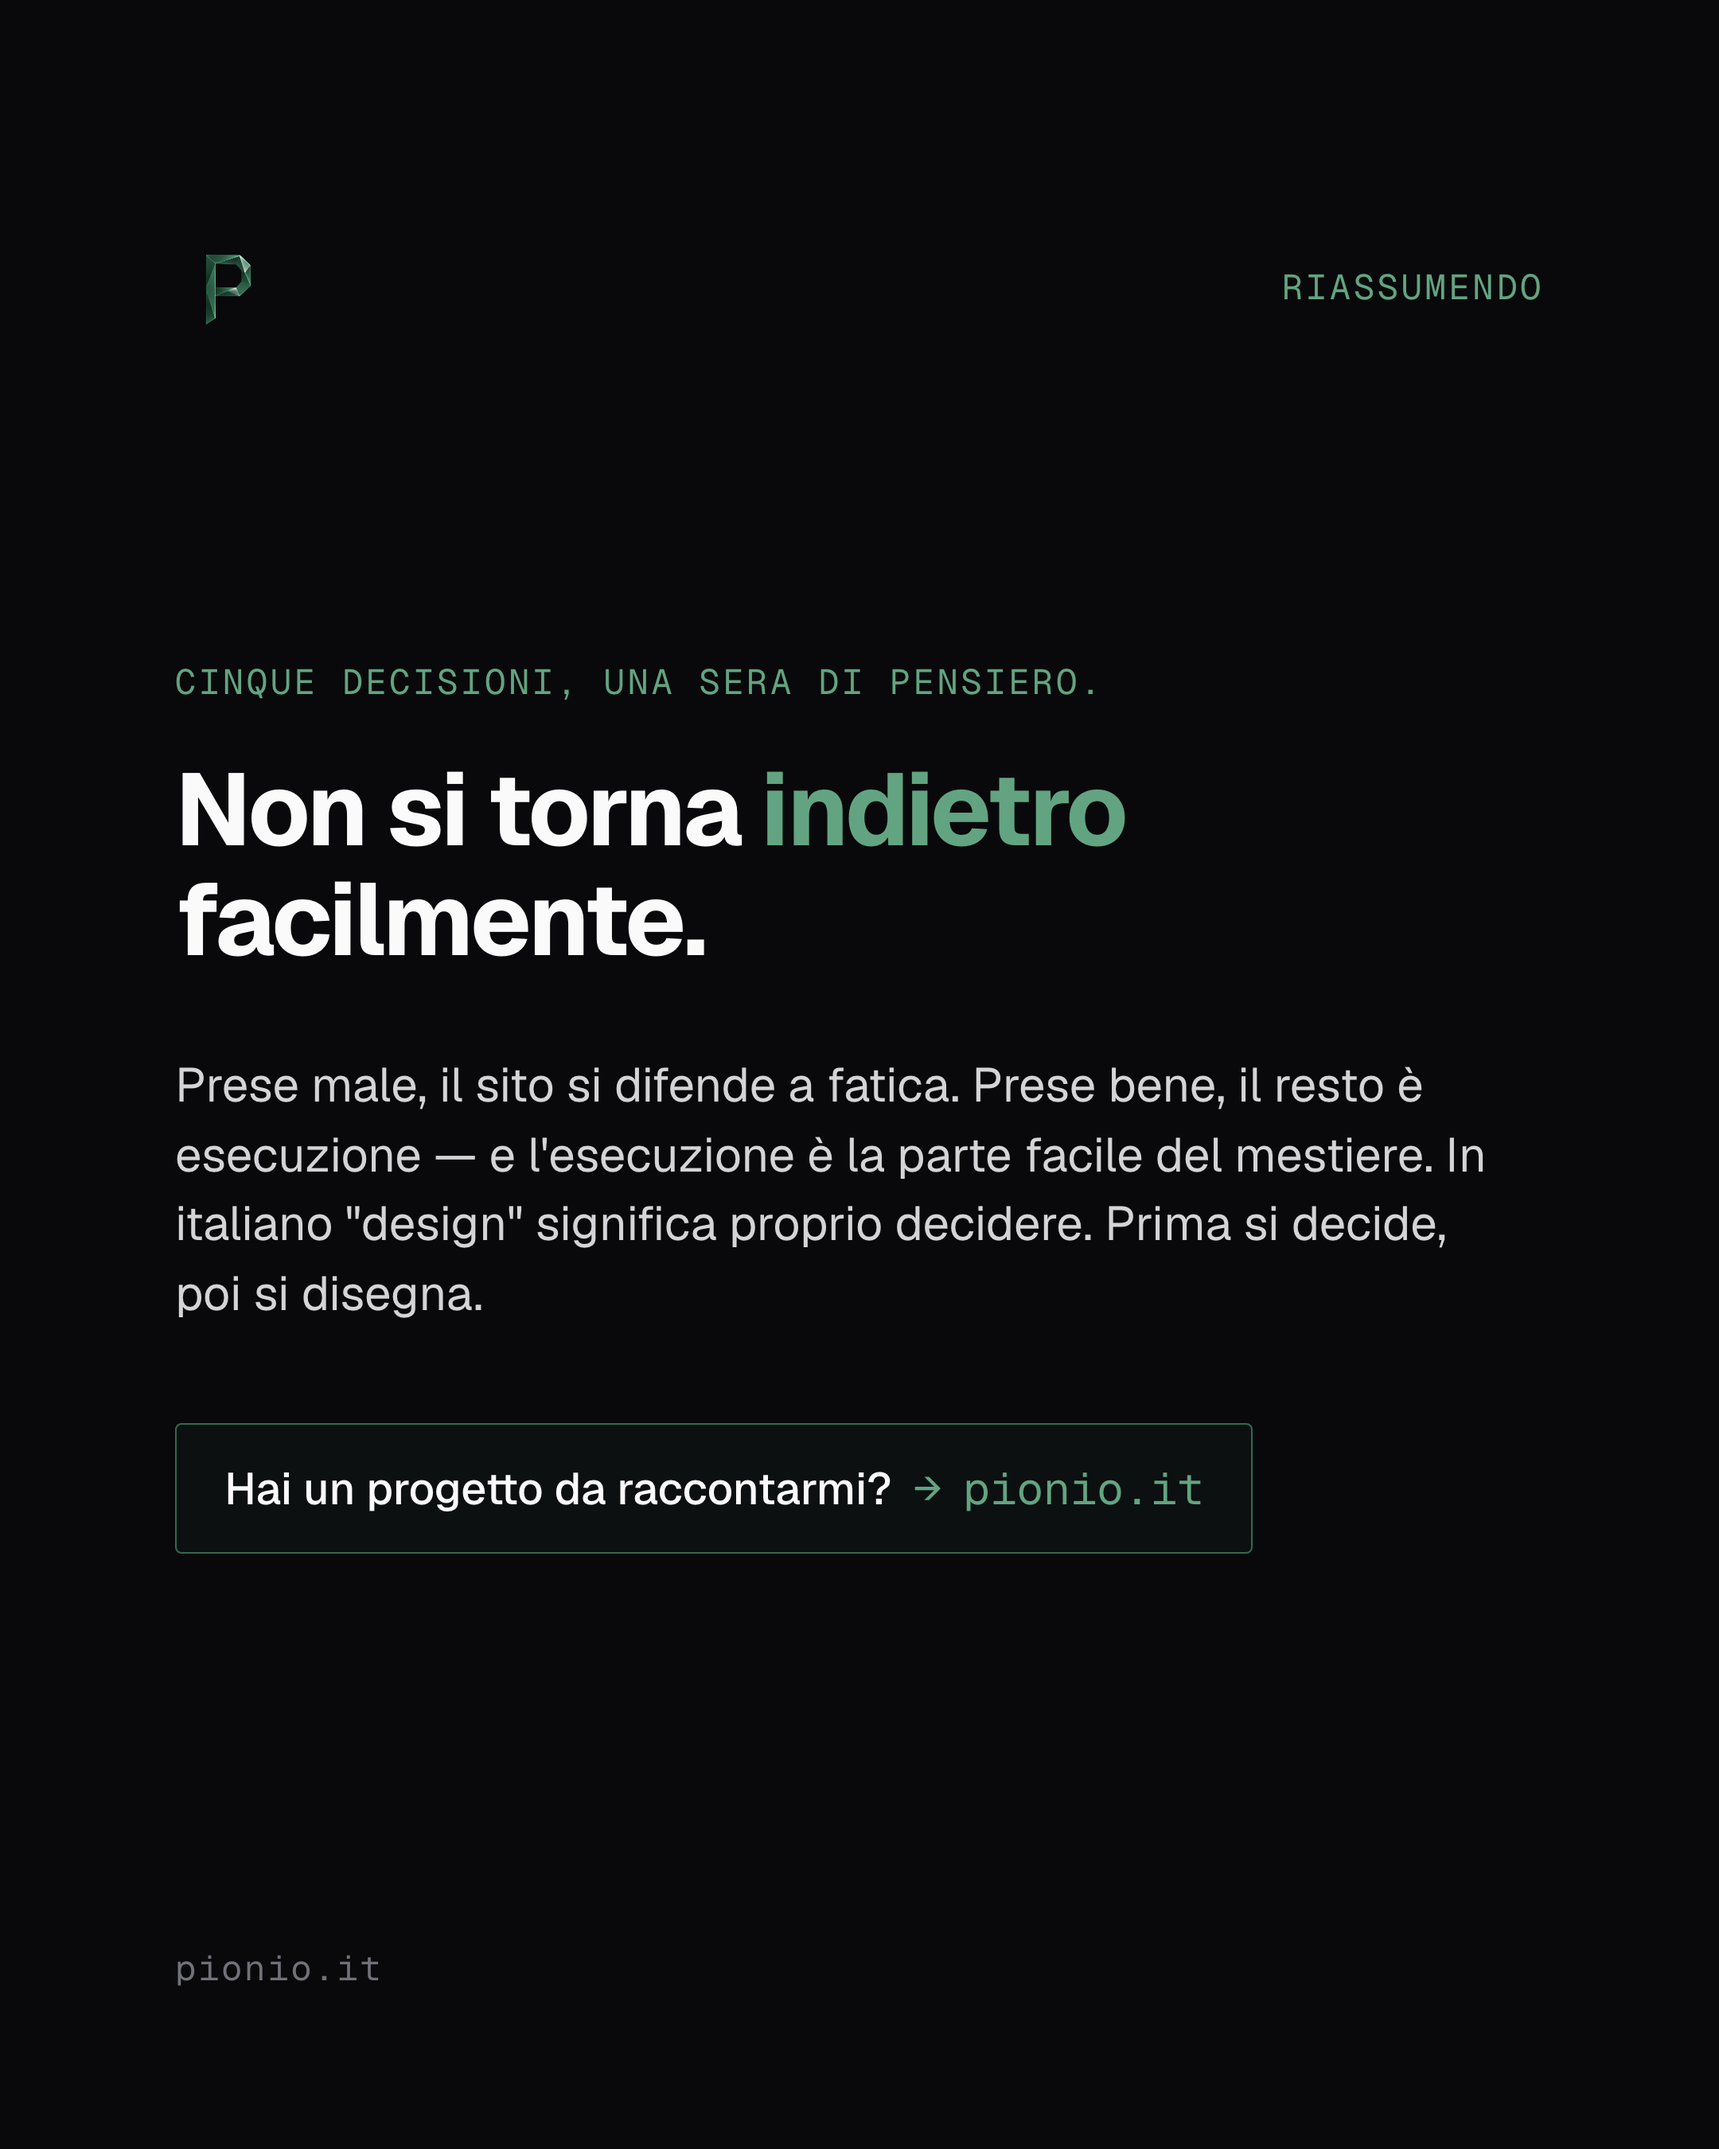
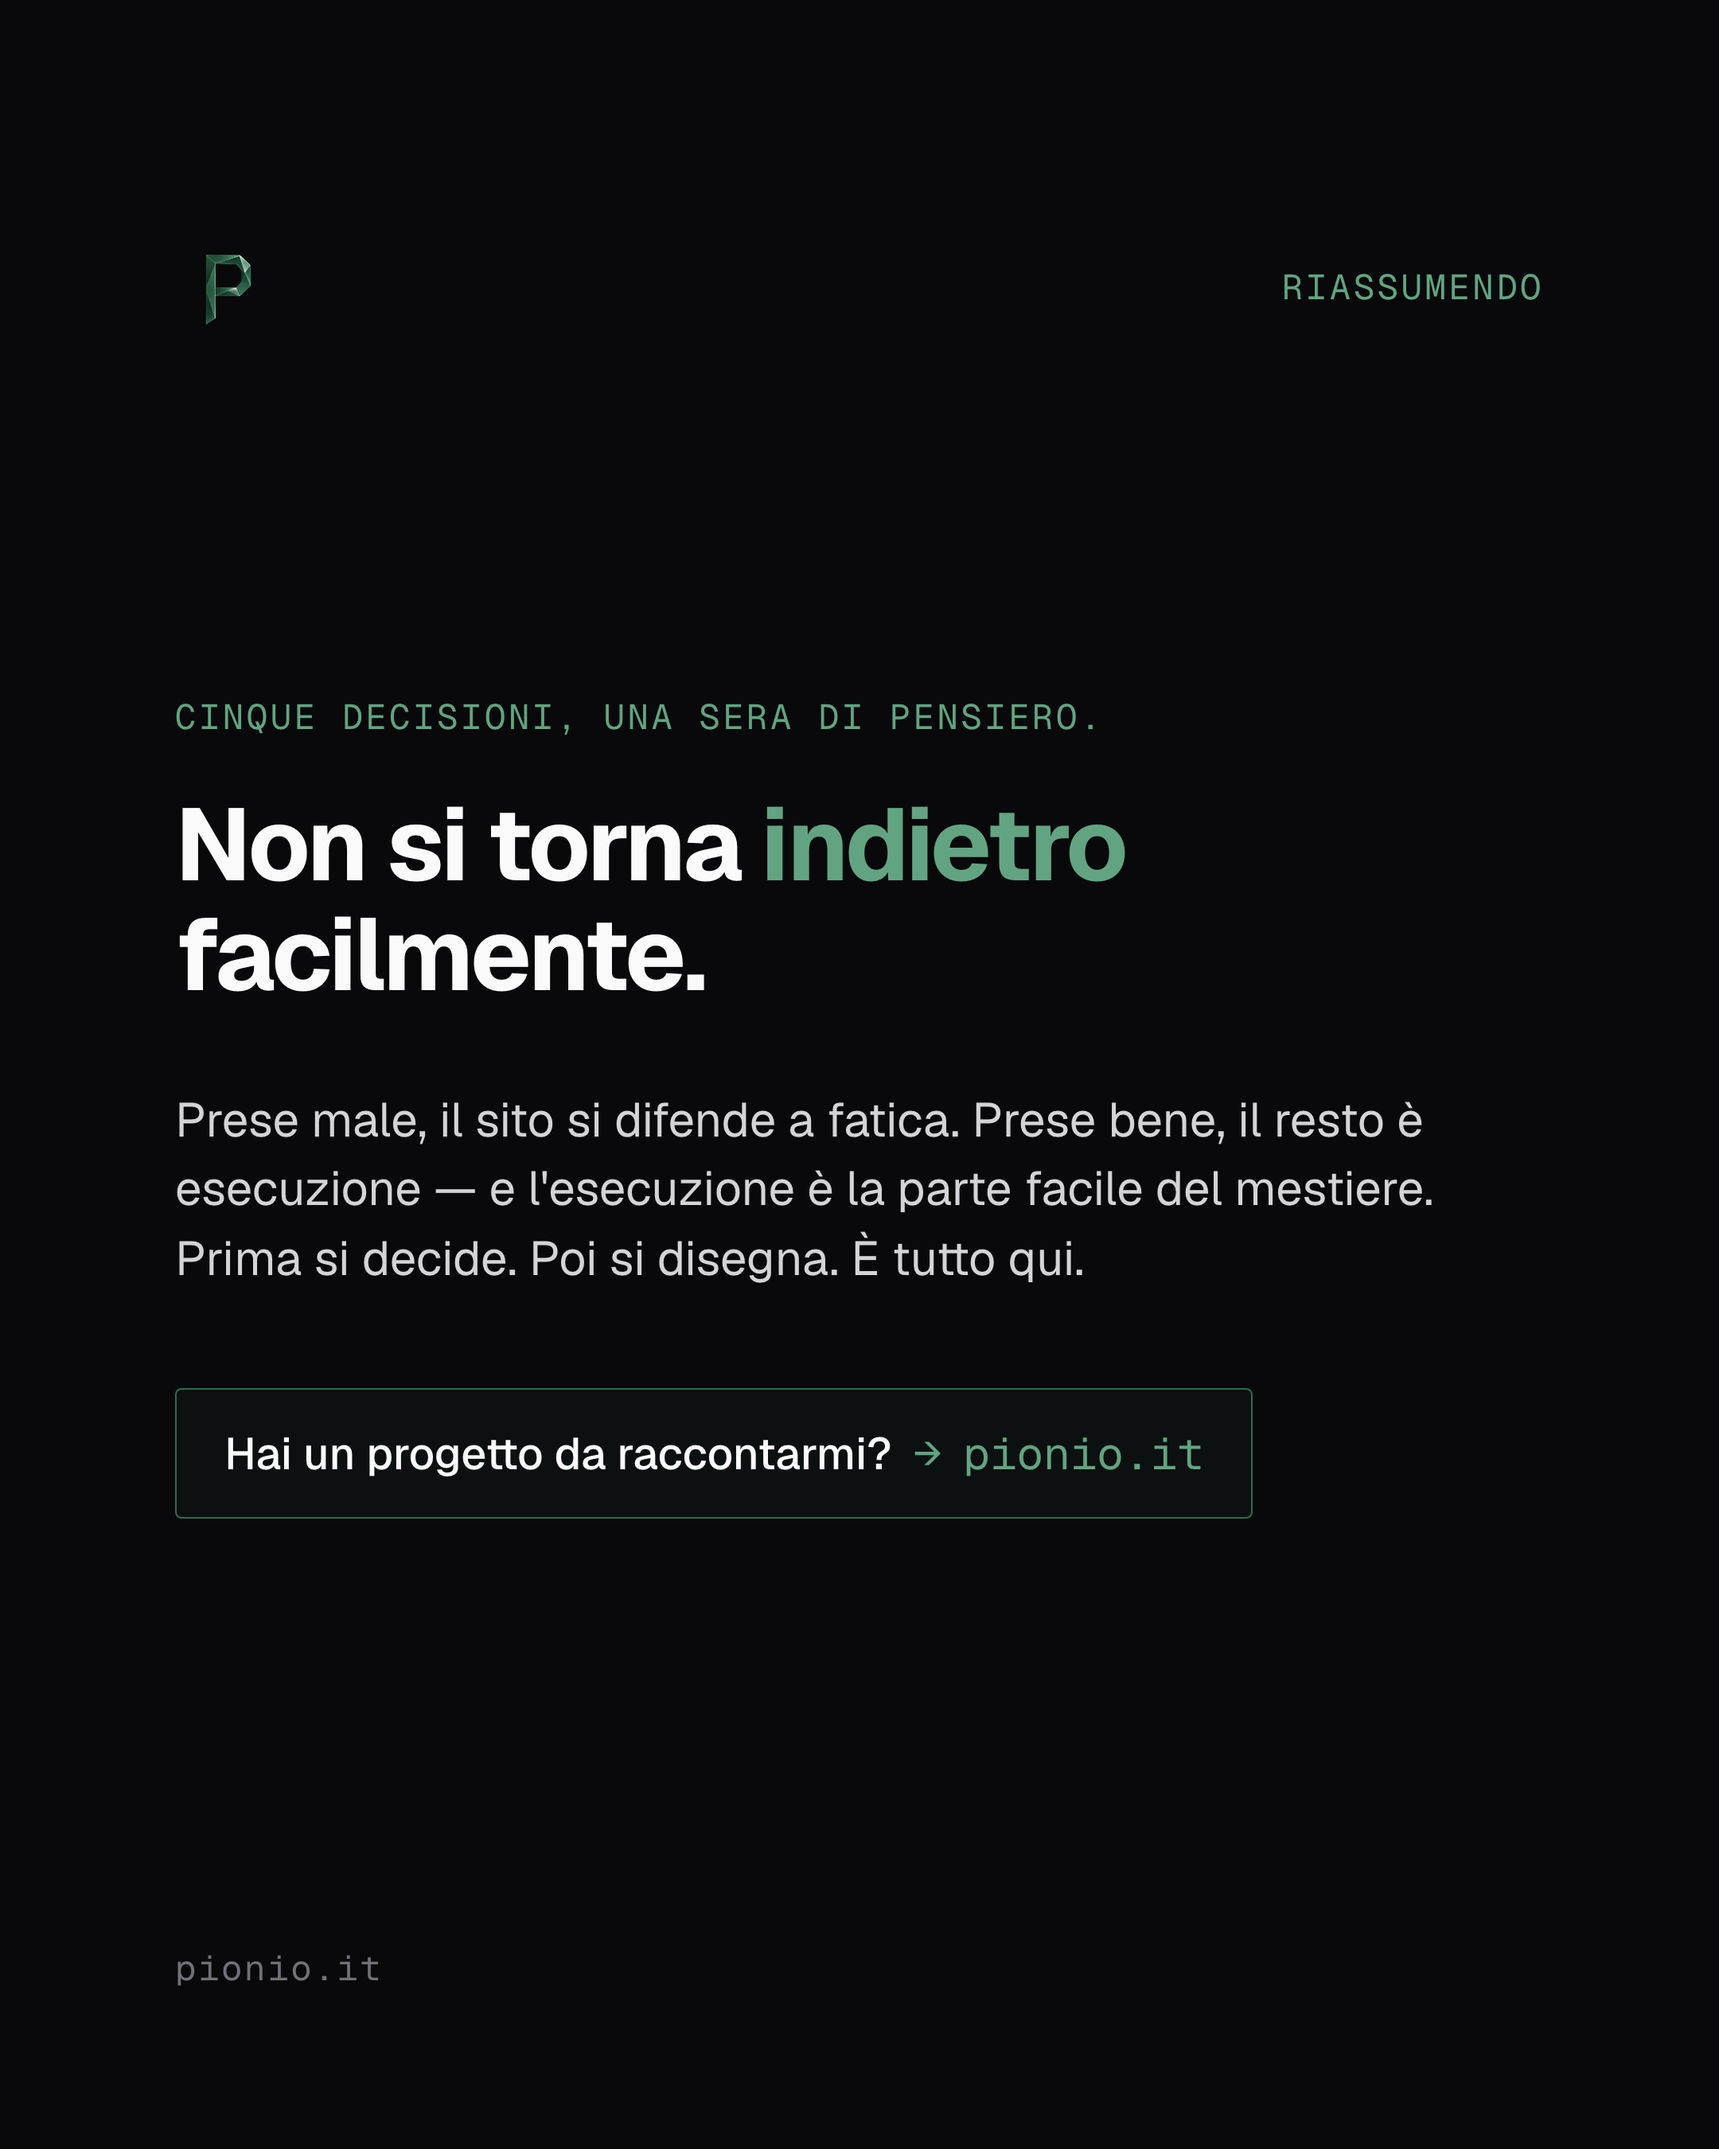
fix(instagram): W10 educational — togli pseudo-etimologia design/decidere

diff --git a/instagram/content/settimana-10-lug-2026/1-lun-20-13-educational-cinque-decisioni/src/slides.html b/instagram/content/settimana-10-lug-2026/1-lun-20-13-educational-cinque-decisioni/src/slides.html
@@ -108,7 +108,7 @@
   <div class="main">
     <div class="hook-kicker">Cinque decisioni, una sera di pensiero.</div>
     <h2 class="punto-titolo" style="margin-top:0;font-size:64px">Non si torna <em style="color:var(--accent);font-style:normal">indietro</em> facilmente.</h2>
-    <p class="punto-body">Prese male, il sito si difende a fatica. Prese bene, il resto è esecuzione — e l'esecuzione è la parte facile del mestiere. In italiano "design" significa proprio decidere. Prima si decide, poi si disegna.</p>
+    <p class="punto-body">Prese male, il sito si difende a fatica. Prese bene, il resto è esecuzione — e l'esecuzione è la parte facile del mestiere. Prima si decide. Poi si disegna. È tutto qui.</p>
     <div class="cta">
       <span class="cta-label">Hai un progetto da raccontarmi?</span>
       <span class="cta-arrow">→</span>
